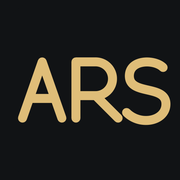
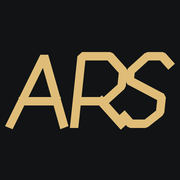
Add polished motion and custom ARS branding

Changed region(s): [[0.3056, 0.2778, 0.9722, 0.7222], [0.0278, 0.2778, 0.3611, 0.7222], [0.3056, 0.6111, 0.3333, 0.6389]]

diff --git a/styles.css b/styles.css
@@ -32,8 +32,9 @@ a:hover { color: var(--accent); }
 .eyebrow { display: flex; align-items: center; gap: 9px; color: var(--accent); font-size: .8125rem; font-weight: 700; letter-spacing: .07em; line-height: 1.6; text-transform: uppercase; }
 .site-header { position: sticky; z-index: 50; top: 0; background: var(--bg); border-bottom: 1px solid var(--line); }
 .header-inner { display: flex; align-items: center; gap: 24px; width: min(var(--max), calc(100% - 64px)); min-height: 80px; margin-inline: auto; }
-.brand { font-size: 1.5rem; font-weight: 700; letter-spacing: -.04em; line-height: 1; }
-.brand span { color: var(--accent); }
+.brand { display: inline-flex; flex-shrink: 0; align-items: center; min-height: 48px; line-height: 1; }
+.brand img { width: 72px; height: 48px; transition: filter .25s ease; }
+.brand:hover img { filter: drop-shadow(0 0 7px rgba(223,189,120,.4)); }
 .nav-links { display: flex; align-items: center; gap: 28px; margin-left: auto; }
 .nav-links a { color: var(--muted); font-size: .875rem; padding-block: 10px; }
 .nav-links a:hover, .nav-links a.is-active { color: var(--ink); }
@@ -60,9 +61,10 @@ a:hover { color: var(--accent); }
 .hero-socials a, .contact-socials a { padding-block: 5px; }
 .portrait-card { width: 100%; max-width: 360px; justify-self: end; border: 1px solid var(--line); border-radius: var(--radius); overflow: hidden; background: var(--surface); }
 .portrait-stage { position: relative; width: 100%; aspect-ratio: 4 / 4.6; background: var(--bg); overflow: hidden; }
-.portrait-photo { width: 100%; height: 100%; object-fit: cover; object-position: center 42%; }
-.portrait-card[data-mode="ascii"] .portrait-photo { visibility: hidden; }
-.ascii-portrait { position: absolute; inset: 0; display: flex; align-items: center; justify-content: center; margin: 0; color: var(--accent); font-family: Consolas, "Courier New", monospace; font-weight: 400; white-space: pre; user-select: none; }
+.portrait-photo { width: 100%; height: 100%; object-fit: cover; object-position: center 42%; opacity: 1; transition: opacity .55s ease; }
+.portrait-card[data-mode="ascii"] .portrait-photo { opacity: 0; }
+.ascii-portrait { position: absolute; inset: 0; display: flex; align-items: center; justify-content: center; margin: 0; color: var(--accent); font-family: Consolas, "Courier New", monospace; font-weight: 400; white-space: pre; user-select: none; opacity: 0; transition: opacity .55s ease; }
+.portrait-card[data-mode="ascii"] .ascii-portrait { opacity: 1; }
 .portrait-card figcaption { display: flex; justify-content: space-between; align-items: center; gap: 10px; padding: 18px; border-top: 1px solid var(--line); }
 .portrait-card figcaption strong { display: block; font-size: .875rem; }
 .portrait-card figcaption div > span { display: block; color: var(--muted); font-size: .8125rem; margin-top: 3px; }
@@ -161,6 +163,55 @@ h2 { margin-top: 12px; font-size: clamp(1.875rem, 3.4vw, 2.75rem); font-weight: 
 .resume-card:hover { background: #29241c; border-color: var(--accent); }
 .site-footer { display: flex; flex-wrap: wrap; justify-content: space-between; gap: 16px; border-top: 1px solid var(--line); padding-block: 24px 32px; color: var(--muted); font-size: .8125rem; }
 .site-footer > span:nth-child(2) { color: var(--muted); }
+/* Motion enhances the existing layout without hiding content by default. */
+.page-progress { position: fixed; inset: 0 0 auto; z-index: 100; height: 2px; pointer-events: none; }
+.page-progress span { display: block; width: 100%; height: 100%; transform: scaleX(0); transform-origin: left; background: var(--accent); }
+.hero { position: relative; isolation: isolate; }
+.hero::before { position: absolute; z-index: -1; top: 0; right: 0; width: min(440px, 100%); height: 440px; background: radial-gradient(ellipse, rgba(223,189,120,.07), transparent 68%); content: ""; pointer-events: none; }
+.project-card, .education-card, .resume-card, .portrait-card { position: relative; isolation: isolate; }
+.project-card::before, .education-card::before, .resume-card::before, .portrait-card::before { position: absolute; z-index: -1; inset: 0; border-radius: inherit; background: radial-gradient(320px circle at var(--spot-x, 50%) var(--spot-y, 50%), rgba(223,189,120,.1), transparent 75%); opacity: 0; content: ""; pointer-events: none; transition: opacity .3s ease; }
+.portrait-stage::before { position: absolute; z-index: 2; top: 0; left: 0; width: 100%; height: 2px; background: linear-gradient(90deg, transparent, rgba(223,189,120,.65), transparent); box-shadow: 0 0 25px 8px rgba(223,189,120,.04); opacity: 0; content: ""; pointer-events: none; }
+.portrait-stage::after { position: absolute; z-index: 3; inset: -20% -50%; background: linear-gradient(110deg, transparent 40%, rgba(255,255,255,.1) 50%, transparent 60%); opacity: 0; content: ""; pointer-events: none; }
+.footer-identity { display: flex; align-items: center; gap: 14px; }
+.footer-identity img { width: 48px; height: 32px; }
+.site-footer { align-items: center; }
+@media (prefers-reduced-motion: no-preference) {
+  .motion-ready .hero-copy > * { animation: arrive .7s cubic-bezier(.22,1,.36,1) both; }
+  .motion-ready .hero-copy > :nth-child(2) { animation-delay: .08s; }
+  .motion-ready .hero-copy > :nth-child(3) { animation-delay: .16s; }
+  .motion-ready .hero-copy > :nth-child(4) { animation-delay: .24s; }
+  .motion-ready .hero-copy > :nth-child(5) { animation-delay: .32s; }
+  .motion-ready .hero-copy > :nth-child(6) { animation-delay: .4s; }
+  .motion-ready .portrait-card { animation: portrait-arrive .9s ease .15s both; }
+  .motion-ready .reveal { opacity: 0; translate: 0 18px; transition: opacity .65s ease var(--reveal-delay, 0ms), translate .65s cubic-bezier(.22,1,.36,1) var(--reveal-delay, 0ms), transform .28s ease, border-color .25s ease, box-shadow .28s ease, background .25s ease; }
+  .motion-ready .reveal.is-visible { opacity: 1; translate: 0 0; }
+  .status-dot { animation: status-pulse 3.5s ease-in-out infinite; }
+  .portrait-card[data-mode="ascii"] .portrait-stage::before { opacity: 1; animation: portrait-scan 7s linear infinite; }
+  .project-card, .education-card, .resume-card, .portrait-card { transition: transform .28s ease, border-color .25s ease, box-shadow .28s ease, background .25s ease; }
+  .button, .header-cta { transition: transform .22s ease, color .18s ease, background .18s ease, border-color .18s ease, box-shadow .22s ease; }
+  .button span, .header-cta span, .project-link span, .text-link span, .resume-card strong span, .contact-email span { display: inline-block; transition: transform .22s ease; }
+  .nav-links a { position: relative; }
+  .nav-links a::after { position: absolute; bottom: 2px; left: 0; width: 100%; height: 1px; background: var(--accent); transform: scaleX(0); transform-origin: left; content: ""; transition: transform .25s ease; }
+  .nav-links a:hover::after { transform: scaleX(1); }
+  .experience-row { position: relative; }
+  .experience-row::before { position: absolute; top: -1px; left: 0; height: 1px; width: 100%; background: var(--accent); transform: scaleX(0); transform-origin: left; content: ""; transition: transform .4s ease; }
+  .experience-row:focus-within::before { transform: scaleX(1); }
+}
+@media (hover: hover) and (pointer: fine) and (prefers-reduced-motion: no-preference) {
+  .project-card:hover, .education-card:hover, .resume-card:hover { transform: translateY(-4px); border-color: #82704d; box-shadow: 0 16px 38px rgba(0,0,0,.15); }
+  .project-card:hover::before, .education-card:hover::before, .resume-card:hover::before, .portrait-card:hover::before { opacity: 1; }
+  .portrait-card { transform: perspective(900px) rotateX(var(--tilt-x, 0deg)) rotateY(var(--tilt-y, 0deg)); }
+  .portrait-card:hover { border-color: #82704d; box-shadow: 0 18px 48px rgba(0,0,0,.25); }
+  .portrait-card:hover .portrait-stage::after { animation: portrait-sheen .9s ease both; }
+  .button:hover, .header-cta:hover { transform: translateY(-2px); box-shadow: 0 8px 24px rgba(0,0,0,.15); }
+  .button:hover span, .header-cta:hover span, .project-link:hover span, .text-link:hover span, .resume-card:hover strong span, .contact-email:hover span { transform: translate(2px, -2px); }
+  .experience-row:hover::before { transform: scaleX(1); }
+}
+@keyframes arrive { from { opacity: 0; translate: 0 14px; } to { opacity: 1; translate: 0 0; } }
+@keyframes portrait-arrive { from { opacity: 0; } to { opacity: 1; } }
+@keyframes status-pulse { 0%, 100% { box-shadow: 0 0 0 0 rgba(223,189,120,0); } 45% { box-shadow: 0 0 0 5px rgba(223,189,120,.1); } }
+@keyframes portrait-scan { 0% { top: 0; opacity: 0; } 8%, 88% { opacity: .55; } 100% { top: 100%; opacity: 0; } }
+@keyframes portrait-sheen { 0% { opacity: 0; transform: translateX(-35%); } 20% { opacity: 1; } 100% { opacity: 0; transform: translateX(35%); } }
 @media (max-width: 1000px) {
   .project-card h3 { min-height: 2.8em; }
   .hero-grid { gap: 36px; grid-template-columns: minmax(0, 1.4fr) minmax(0, 1fr); }
@@ -209,6 +260,8 @@ h2 { margin-top: 12px; font-size: clamp(1.875rem, 3.4vw, 2.75rem); font-weight: 
   .site-footer > span:nth-child(2) { display: none; }
 }
 @media (max-width: 440px) {
+  .header-inner { gap: 10px; }
+  .brand img { width: 60px; height: 40px; }
   .eyebrow { font-size: .75rem; letter-spacing: .04em; }
   .hero-role { font-size: 1rem; }
   .hero-lede { font-size: 1rem; }
@@ -227,11 +280,16 @@ h2 { margin-top: 12px; font-size: clamp(1.875rem, 3.4vw, 2.75rem); font-weight: 
 }
 @media (prefers-reduced-motion: reduce) {
   html { scroll-behavior: auto; }
-  *, *::before, *::after { transition: none !important; }
+  *, *::before, *::after { transition: none !important; animation: none !important; }
+  .portrait-stage::before, .portrait-stage::after { display: none; }
 }
 @media print {
   :root { color-scheme: light; --bg: #fff; --surface: #fff; --ink: #111; --muted: #444; --accent: #584019; --line: #ccc; }
-  .site-header, .hero-actions, .hero-socials, .portrait-toggle, .skip-link, .site-footer { display: none; }
+  .site-header, .hero-actions, .hero-socials, .portrait-toggle, .skip-link, .site-footer, .page-progress { display: none; }
+  .motion-ready .reveal { opacity: 1; translate: none; }
+  .motion-ready .hero-copy > *, .motion-ready .portrait-card { animation: none; opacity: 1; translate: none; }
+  .portrait-card[data-mode="ascii"] .portrait-photo { opacity: 1; }
+  .ascii-portrait, .portrait-stage::before, .portrait-stage::after { display: none; }
   .hero, .section, .contact-section { padding-block: 24px; }
   .container { width: 100%; }
   .experience-row, .project-card, .education-card { break-inside: avoid; }

diff --git a/script.js b/script.js
@@ -1,5 +1,72 @@
 (() => {
   document.documentElement.classList.remove("no-js");
+  const reducedMotion = window.matchMedia("(prefers-reduced-motion: reduce)");
+  const finePointer = window.matchMedia("(hover: hover) and (pointer: fine)");
+  const root = document.documentElement;
+  const progress = document.getElementById("pageProgress");
+
+  // Enhancement only: content is fully visible without JavaScript or with reduced motion.
+  const revealItems = [...document.querySelectorAll(
+    ".section-heading, .about-copy, .experience-row, .project-card, .additional-grid article, .skill-grid article, .education-card, .achievement-list li, .contact-section > div, .resume-card"
+  )];
+  let revealObserver;
+  if (!reducedMotion.matches && "IntersectionObserver" in window) {
+    root.classList.add("motion-ready");
+    revealObserver = new IntersectionObserver((entries, observer) => {
+      entries.forEach(({ target, isIntersecting }) => {
+        if (!isIntersecting) return;
+        target.classList.add("is-visible");
+        observer.unobserve(target);
+      });
+    }, { threshold: 0.08, rootMargin: "0px 0px -20px" });
+    revealItems.forEach((item) => {
+      item.classList.add("reveal");
+      const siblings = [...item.parentElement.children];
+      item.style.setProperty("--reveal-delay", `${Math.min(siblings.indexOf(item), 3) * 65}ms`);
+      revealObserver.observe(item);
+    });
+    document.addEventListener("focusin", (event) => {
+      const item = event.target.closest(".reveal");
+      if (item) { item.classList.add("is-visible"); revealObserver.unobserve(item); }
+    });
+  }
+
+  const hoverCards = [...document.querySelectorAll(".project-card, .education-card, .resume-card, .portrait-card")];
+  const resetCard = (item) => {
+    item.style.removeProperty("--spot-x");
+    item.style.removeProperty("--spot-y");
+    item.style.removeProperty("--tilt-x");
+    item.style.removeProperty("--tilt-y");
+  };
+  hoverCards.forEach((item) => {
+    let pointerFrame = 0;
+    let pointerX = 0;
+    let pointerY = 0;
+    item.addEventListener("pointermove", (event) => {
+      if (!finePointer.matches || reducedMotion.matches) return;
+      pointerX = event.clientX;
+      pointerY = event.clientY;
+      if (pointerFrame) return;
+      pointerFrame = window.requestAnimationFrame(() => {
+        pointerFrame = 0;
+        if (!finePointer.matches || reducedMotion.matches) return;
+        const bounds = item.getBoundingClientRect();
+        const x = pointerX - bounds.left;
+        const y = pointerY - bounds.top;
+        item.style.setProperty("--spot-x", `${x}px`);
+        item.style.setProperty("--spot-y", `${y}px`);
+        if (item.classList.contains("portrait-card")) {
+          item.style.setProperty("--tilt-x", `${(0.5 - y / bounds.height) * 5}deg`);
+          item.style.setProperty("--tilt-y", `${(x / bounds.width - 0.5) * 5}deg`);
+        }
+      });
+    }, { passive: true });
+    item.addEventListener("pointerleave", () => {
+      window.cancelAnimationFrame(pointerFrame);
+      pointerFrame = 0;
+      resetCard(item);
+    });
+  });
 
   const menuToggle = document.getElementById("menuToggle");
   const mobileNav = document.getElementById("mobileNav");
@@ -27,6 +94,9 @@
   const sections = [...new Set(navLinks.map((link) => document.querySelector(link.hash)).filter(Boolean))];
   let scrollFrame = 0;
   const updateNavigation = () => {
+    const available = document.documentElement.scrollHeight - window.innerHeight;
+    const ratio = available > 0 ? Math.max(0, Math.min(1, window.scrollY / available)) : 0;
+    progress?.style.setProperty("transform", `scaleX(${ratio})`);
     const offset = (document.querySelector(".site-header")?.offsetHeight || 80) + 80;
     let active = null;
     for (const section of sections) {
@@ -52,7 +122,7 @@
   const canvas = document.getElementById("portraitCanvas");
   const toggle = document.getElementById("portraitToggle");
   const card = document.querySelector(".portrait-card");
-  // Generate the optional portrait only on request. The photo stays visible on failure.
+  // Start with the ASCII portrait when motion is welcome; preserve the photo on failure.
   const renderAscii = () => {
     const context = canvas?.getContext("2d", { willReadFrequently: true });
     if (!context || !photo?.naturalWidth || !stage?.clientWidth || !portrait) return false;
@@ -88,24 +158,40 @@
   };
   const showPhoto = () => {
     if (card) card.dataset.mode = "photo";
-    if (portrait) portrait.hidden = true;
     toggle?.setAttribute("aria-pressed", "false");
     if (toggle) toggle.textContent = "View ASCII";
   };
-  const enableToggle = () => { if (toggle && photo?.naturalWidth) toggle.hidden = false; };
+  const showAscii = () => {
+    try {
+      if (!renderAscii()) return false;
+      card.dataset.mode = "ascii";
+      portrait.hidden = false;
+      toggle.setAttribute("aria-pressed", "true");
+      toggle.textContent = "View photo";
+      return true;
+    } catch { showPhoto(); if (toggle) toggle.hidden = true; return false; }
+  };
+  const enableToggle = () => {
+    if (!toggle || !photo?.naturalWidth) return;
+    toggle.hidden = false;
+    if (!reducedMotion.matches) showAscii();
+  };
   if (photo?.complete) enableToggle();
   else photo?.addEventListener("load", enableToggle, { once: true });
   photo?.addEventListener("error", () => { showPhoto(); if (toggle) toggle.hidden = true; }, { once: true });
   toggle?.addEventListener("click", () => {
     if (card?.dataset.mode === "ascii") { showPhoto(); return; }
-    try {
-      if (!renderAscii()) return;
-      card.dataset.mode = "ascii";
-      portrait.hidden = false;
-      toggle.setAttribute("aria-pressed", "true");
-      toggle.textContent = "View photo";
-    } catch { showPhoto(); toggle.hidden = true; }
+    showAscii();
   });
+  reducedMotion.addEventListener("change", () => {
+    if (!reducedMotion.matches) return;
+    root.classList.remove("motion-ready");
+    revealObserver?.disconnect();
+    revealItems.forEach((item) => item.classList.add("is-visible"));
+    hoverCards.forEach(resetCard);
+    showPhoto();
+  });
+  finePointer.addEventListener("change", () => hoverCards.forEach(resetCard));
   let resizeTimer = 0;
   window.addEventListener("resize", () => {
     window.clearTimeout(resizeTimer);

diff --git a/index.html b/index.html
@@ -26,12 +26,13 @@
   </script>
  </head>
  <body>
+  <div class="page-progress" aria-hidden="true"><span id="pageProgress"></span></div>
   <a class="skip-link" href="#main-content">
    Skip to content
   </a>
   <header class="site-header">
    <div class="header-inner">
-    <a aria-label="Abhinav Ranjan Sulabh, home" class="brand" href="#top">ARS<span aria-hidden="true">.</span></a>
+    <a aria-label="Abhinav Ranjan Sulabh, home" class="brand" href="#top"><img src="assets/ars-logo.svg" width="72" height="48" alt="ARS monogram"></a>
     <nav aria-label="Portfolio sections" class="nav-links">
      <a href="#about">
       About
@@ -776,9 +777,7 @@
    </section>
   </main>
   <footer class="site-footer container">
-   <span>
-    © 2026 Abhinav Ranjan Sulabh
-   </span>
+   <div class="footer-identity"><a href="#top" aria-label="Abhinav Ranjan Sulabh, home"><img src="assets/ars-logo.svg" width="48" height="32" alt="ARS monogram" loading="lazy"></a><span>© 2026 Abhinav Ranjan Sulabh</span></div>
    <span>
     Built with care. Kept simple.
    </span>

diff --git a/README.md b/README.md
@@ -14,7 +14,8 @@ Semantic HTML, responsive CSS, and vanilla JavaScript. No build step or package 
 | --- | --- |
 | `index.html` | Portfolio content, navigation, and page metadata |
 | `styles.css` | Typography, colors, layouts, and responsive styles |
-| `script.js` | Mobile navigation, active section tracking, and optional ASCII portrait |
+| `script.js` | Navigation, scroll reveals, pointer highlights, and ASCII/photo portrait |
+| `assets/ars-logo.svg`, `assets/ars-logo.png` | Custom ARS monogram in vector and transparent PNG formats |
 | `myImage.jpeg` | Profile photograph |
 | `favicon.svg`, `favicon.ico` | Browser icons |
 | `apple-touch-icon.png` | Home-screen icon for Apple devices |
@@ -38,5 +39,9 @@ Open [localhost:8000](http://localhost:8000). Stop the server with `Ctrl+C`.
 - Keep project links pointed at their actual repositories and qualify evaluation metrics with their context.
 - Review mobile layouts, keyboard navigation, project links, and the resume link after changes.
 - Update the SVG and raster icons together when changing the monogram or colors.
+
+## Motion
+
+The site includes staggered entrances, scroll reveals, card highlights, and an ASCII portrait with a photo toggle. Pointer tilt and hover motion run on devices with a fine pointer. Reduced-motion preferences disable animations and show the photograph by default; content and navigation also work without JavaScript.
 
 GitHub Pages should serve the root of the configured publishing branch. Changes go live after they are pushed and the Pages deployment completes.
